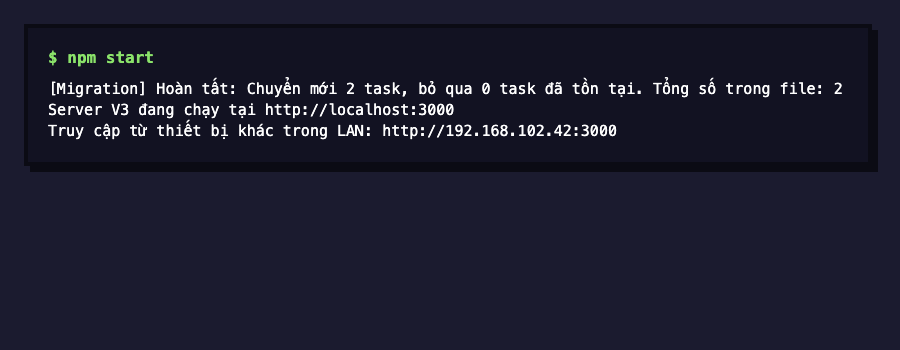
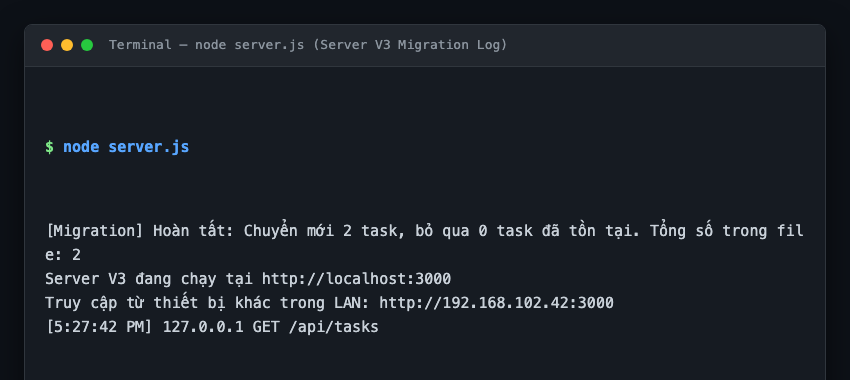
Cap nhat tai lieu va anh minh chung v3-2b, v3-7

Changed region(s): [[0.0, 0.0, 1.0, 1.0]]

diff --git a/docs/README.md b/docs/README.md
@@ -16,10 +16,10 @@ Một codebase duy nhất phát triển qua 4 phiên bản. Mỗi phiên bản c
 
 | Version | NFR mới | Quyết định thiết kế | File/thành phần đổi | Kết quả test |
 |---|---|---|---|---|
-| V1 | Chưa có (chỉ chức năng: tạo, xem, đổi trạng thái, xoá; dữ liệu còn sau khi restart) | Express + 1 trang HTML, lưu `tasks.json` | `server.js`, `public/index.html`, `tasks.json` | Tạo 2 task ("Hoc bai kien truc", "Nop bai tuan 7"), hoàn thành 1 task, tắt server và khởi động lại → 2 task và trạng thái hoàn thành vẫn còn nguyên trong `tasks.json` ✅ |
-| V2 | Chia sẻ trạng thái tập trung giữa nhiều client | Giữ server, client polling 2s; đặt trạng thái `{done}` thay toggle; id UUID; ghi file atomic; listen `0.0.0.0` | `server.js`, `public/index.html` | A tạo → B thấy không reload; B đánh dấu xong → A thấy; tắt server → client báo mất kết nối ✅ |
-| V3 | Modifiability: thay UI và persistence | Tách Presentation / Business / Data Access; `ITaskRepository`; Kanban 2 cột; SQLite + migration từ JSON | `src/**`, `scripts/migrate-to-sqlite.js`, `server.js`, `public/index.html` | Chạy server tự động migrate 2 task từ `tasks.json` sang SQLite (`tasks.db`), giao diện Kanban 2 cột hiển thị đủ; tạo task mới và đổi trạng thái; tắt server bật lại vẫn giữ nguyên; chạy lại migrate lần 2 không bị nhân đôi task ✅ |
-| V4 | Availability khi mất server; giao tiếp ngang hàng | Giữ V3 làm chế độ thường; thêm WebRTC DataChannel (signaling copy-paste); bản sao cục bộ; snapshot + op, last-write-wins | `public/js/peer-link.js`, `public/js/local-replica.js`, `public/index.html` (server không đổi) | Kết nối A–B, tắt server; A tạo → B nhận; bấm XONG → cả hai đổi cột ✅ |
+| V1 | Chưa có (chỉ chức năng: tạo, xem, đổi trạng thái, xoá; dữ liệu còn sau khi restart) | Express + 1 trang HTML, lưu `tasks.json` | `server.js`, `public/index.html`, `tasks.json` | Gọi API tạo 2 task ("Hoc bai kien truc", "Nop bai tuan 7"), gọi API hoàn thành 1 task, tắt server và khởi động lại → giao diện hiển thị đúng 2 task và trạng thái hoàn thành vẫn còn nguyên trong `tasks.json` ✅ |
+| V2 | Chia sẻ trạng thái tập trung giữa nhiều client | Giữ server, client polling 2s; đặt trạng thái `{done}` thay toggle; id duy nhất (UUID sinh bởi `crypto.randomUUID` thay `Date.now`, dữ liệu cũ giữ nguyên `task-1`, `task-2`); ghi file atomic; listen `0.0.0.0` | `server.js`, `public/index.html` | A tạo → B thấy không reload; B đánh dấu xong → A thấy; tắt server → client báo mất kết nối ✅ |
+| V3 | Modifiability: thay UI và persistence | Tách Presentation / Business / Data Access; `ITaskRepository`; Kanban 2 cột; SQLite + migration từ JSON | `src/**`, `scripts/migrate-to-sqlite.js`, `server.js`, `public/index.html` | Chạy server tự động migrate 2 task từ `tasks.json` sang SQLite (`tasks.db`), giao diện Kanban 2 cột hiển thị đủ; gọi API tạo task mới và đổi trạng thái; tắt server bật lại vẫn giữ nguyên; chạy lại migrate lần 2 không bị nhân đôi task ✅ |
+| V4 | Availability khi mất server; giao tiếp ngang hàng | Giữ V3 làm chế độ thường; thêm WebRTC DataChannel (signaling copy-paste); bản sao cục bộ; snapshot + op, last-write-wins | `public/js/peer-link.js`, `public/js/local-replica.js`, `public/index.html` (server không đổi) | Kết nối A–B, tắt server; A tạo → B nhận; đổi trạng thái XONG → cả hai đổi cột ✅ |
 
 ## Kiến trúc qua từng phiên bản
 
@@ -37,13 +37,13 @@ Một codebase duy nhất phát triển qua 4 phiên bản. Mỗi phiên bản c
 
 ## Ảnh minh chứng kiểm thử (Screenshots)
 
-> **Ghi chú:** Các ảnh terminal (`v1-3-tasks-json.png`, `v3-1-truoc-migrate.png`, `v3-2b-log-migrate.png`, `v3-5-migrate-lan-2.png`, `v3-6-file-thay-doi.png`, `v3-7-tach-lop.png`) được render từ output thật của lệnh qua trang HTML (vì môi trường chạy tự động không chụp trực tiếp được cửa sổ terminal hệ điều hành).
+> **Ghi chú về kiểm thử tự động:** Các thao tác tạo task và cập nhật trạng thái ở V1 và V3 được thực hiện bằng lệnh gọi HTTP API (`curl`), sau đó chụp màn hình trình duyệt để kiểm chứng kết quả hiển thị thực tế (không phải bấm chuột thủ công trên UI). Các ảnh terminal (`v1-3-tasks-json.png`, `v3-1-truoc-migrate.png`, `v3-2b-log-migrate.png`, `v3-5-migrate-lan-2.png`, `v3-6-file-thay-doi.png`, `v3-7-tach-lop.png`) được render từ output thật của lệnh qua trang HTML (vì môi trường chạy tự động không chụp trực tiếp được cửa sổ terminal hệ điều hành).
 
 ### Version 1 – Đơn máy, lưu tasks.json
 - ![V1 Tạo task](screenshots/v1-1-tao-task.png)
-  *Tạo thành công 2 task ("Hoc bai kien truc", "Nop bai tuan 7") trên giao diện web V1.*
+  *Gọi API tạo thành công 2 task ("Hoc bai kien truc", "Nop bai tuan 7"), giao diện V1 hiển thị đủ 2 task kèm đếm 0/2 XONG.*
 - ![V1 Hoàn thành task](screenshots/v1-2-hoan-thanh.png)
-  *Đánh dấu hoàn thành task "Hoc bai kien truc", đếm task cập nhật thành 1/2 XONG.*
+  *Gọi API đánh dấu hoàn thành task "Hoc bai kien truc", giao diện V1 cập nhật task sang trạng thái gạch ngang và đếm 1/2 XONG.*
 - ![V1 Dữ liệu tasks.json](screenshots/v1-3-tasks-json.png)
   *File `tasks.json` ghi nhận đúng 2 task với trạng thái `done: true` và `done: false`.*
 - ![V1 Khởi động lại server](screenshots/v1-4-khoi-dong-lai.png)
@@ -53,9 +53,9 @@ Một codebase duy nhất phát triển qua 4 phiên bản. Mỗi phiên bản c
 - ![V2 Tạo task đồng bộ](screenshots/v2-1-tao-task.png)
   *Hai cửa sổ trình duyệt (thường và ẩn danh) cùng kết nối, client A tạo task thì client B tự động cập nhật qua polling.*
 - ![V2 Đổi trạng thái đồng bộ](screenshots/v2-2-doi-trang-thai.png)
-  *Client B đánh dấu hoàn thành task, client A lập tức cập nhật trạng thái mà không cần tải lại trang.*
+  *Hai cửa sổ trình duyệt (Incognito bên trái và thường bên phải) hiển thị đồng bộ 2 task ("xin chào", "bên trái") đều ở trạng thái ĐÃ XONG (gạch ngang, nút LÀM LẠI), bộ đếm 2/2 XONG và nhãn trạng thái ĐỒNG BỘ.*
 - ![V2 Tắt server](screenshots/v2-3-tat-server.png)
-  *Khi tắt server, cả hai client đồng loạt hiển thị thông báo mất kết nối tới máy chủ.*
+  *Khi tắt server, cả hai client đồng loạt hiển thị nhãn màu cam/đỏ MẤT KẾT NỐI SERVER ở góc trên danh sách công việc.*
 
 ### Version 3 – Bảng Kanban + SQLite + Tách lớp
 - ![V3 Trước migrate](screenshots/v3-1-truoc-migrate.png)
@@ -63,9 +63,9 @@ Một codebase duy nhất phát triển qua 4 phiên bản. Mỗi phiên bản c
 - ![V3 Kanban hiển thị task migrate](screenshots/v3-2-kanban-migrate.png)
   *Giao diện Kanban 2 cột sau khi khởi động, nạp thành công 2 task cũ vào đúng cột Chưa hoàn thành và Hoàn thành.*
 - ![V3 Log migrate](screenshots/v3-2b-log-migrate.png)
-  *Log terminal khởi động server tự động kích hoạt script migration chuyển 2 task cũ sang SQLite.*
+  *Log terminal khởi động server ghi nhận output thật của script migration tự động chuyển 2 task cũ từ `tasks.json` sang SQLite.*
 - ![V3 Tạo và đổi trạng thái trên Kanban](screenshots/v3-3-tao-doi-trang-thai.png)
-  *Tạo task mới ("Task moi Kanban V3") và đổi trạng thái task cũ sang cột Hoàn thành bằng nút bấm.*
+  *Gọi API tạo task mới ("Task moi Kanban V3") và gọi API chuyển trạng thái task cũ sang hoàn thành, giao diện Kanban 2 cột cập nhật vị trí các task tương ứng.*
 - ![V3 Reload và restart server](screenshots/v3-4-reload.png)
   *Tắt server, bật lại và reload trình duyệt, cả 3 task vẫn được lưu trữ nguyên vẹn trong SQLite (`tasks.db`).*
 - ![V3 Chạy migrate lần 2](screenshots/v3-5-migrate-lan-2.png)
@@ -73,25 +73,25 @@ Một codebase duy nhất phát triển qua 4 phiên bản. Mỗi phiên bản c
 - ![V3 Bằng chứng file thay đổi](screenshots/v3-6-file-thay-doi.png)
   *Lệnh `git diff --stat v2 v3` chỉ ra chi tiết các file thay đổi khi chuyển giao diện Kanban và cấu trúc 3 lớp.*
 - ![V3 Tầng nghiệp vụ độc lập](screenshots/v3-7-tach-lop.png)
-  *Lệnh grep kiểm tra `TaskService.js` chứng minh tầng nghiệp vụ hoàn toàn không phụ thuộc vào sqlite hay express.*
+  *Lệnh grep kiểm tra `TaskService.js` chứng minh tầng nghiệp vụ hoàn toàn không import `better-sqlite3` hay `express`. Lệnh chỉ trả về `require('crypto')` - module chuẩn tích hợp sẵn của Node.js để sinh UUID.*
 
 ### Version 4 – Đồng bộ P2P khi mất server
 - ![V4 Kết nối P2P](screenshots/v4-1-ket-noi.png)
-  *Hai trình duyệt kết nối WebRTC DataChannel thành công bằng mã mời thủ công, chuyển sang trạng thái "CHẾ ĐỘ P2P".*
+  *Hai trình duyệt kết nối WebRTC DataChannel thành công bằng mã mời thủ công, cả hai đều hiển thị nhãn "CHẾ ĐỘ P2P" và khung kết nối hiển thị "ĐÃ KẾT NỐI P2P", danh sách task Kanban đồng bộ.*
 - ![V4 Tắt server](screenshots/v4-2-tat-server.png)
   *Server Node.js đã bị tắt ở cửa sổ terminal, nhưng kết nối P2P giữa hai trình duyệt vẫn duy trì trực tiếp.*
 - ![V4 Tạo task qua P2P](screenshots/v4-3-tao-task.png)
   *Server đã tắt, peer A tạo task mới và gửi thẳng qua WebRTC DataChannel tới peer B tức thì.*
 - ![V4 Đổi trạng thái qua P2P](screenshots/v4-4-doi-trang-thai.png)
-  *Server đã tắt, peer B đổi trạng thái task, peer A nhận thao tác và cập nhật giao diện Kanban đồng bộ.*
+  *Khung kết nối P2P của hai trình duyệt sau khi kết nối và trao đổi bản sao snapshot 2 task ("Task cũ số 1", "Task cũ số 2"), khung log hiển thị dòng nhận bản sao và thông báo DataChannel đã mở.*
 
 ## Trả lời câu hỏi thảo luận
 
 ### 1. Nâng V1 lên V2 thay đổi gì về cách dùng/triển khai (không chỉ đổi tên kiến trúc)?
-Ở V1, ứng dụng chỉ dùng cục bộ trên 1 máy (`localhost`), dữ liệu nạp một lần duy nhất lúc mở trang nên nếu mở nhiều tab hoặc nhiều người cùng dùng sẽ không thấy thay đổi của nhau nếu không reload trang. Lên V2, server lắng nghe trên tất cả giao diện mạng (`0.0.0.0`) giúp các máy khác trong mạng LAN có thể kết nối vào qua IP thật. Phía client được bổ sung cơ chế polling định kỳ 2 giây/lần để liên tục đồng bộ dữ liệu mới nhất từ server. Đồng thời, API cập nhật trạng thái đổi từ cơ chế lật ngược (toggle) sang gửi trạng thái cụ thể (`done: true/false`) kèm ID định danh UUID, ngăn chặn việc hai client thao tác cùng lúc làm đảo lộn trạng thái của nhau.
+Ở V1, ứng dụng chỉ dùng cục bộ trên 1 máy (`localhost`), dữ liệu nạp một lần duy nhất lúc mở trang nên nếu mở nhiều tab hoặc nhiều người cùng dùng sẽ không thấy thay đổi của nhau nếu không reload trang. Lên V2, server lắng nghe trên tất cả giao diện mạng (`0.0.0.0`) giúp các máy khác trong mạng LAN có thể kết nối vào qua IP thật. Phía client được bổ sung cơ chế polling định kỳ 2 giây/lần để liên tục đồng bộ dữ liệu mới nhất từ server. Đồng thời, API cập nhật trạng thái đổi từ cơ chế lật ngược (toggle) sang gửi trạng thái cụ thể (`done: true/false`) kèm ID định danh duy nhất (dữ liệu cũ dùng id `task-1`, `task-2`; từ V2 server sinh UUID bằng `crypto.randomUUID()` thay cho `Date.now()` để tránh trùng khi 2 máy tạo cùng mili-giây), ngăn chặn việc hai client thao tác cùng lúc làm đảo lộn trạng thái của nhau.
 
 ### 2. Ở V3, phần nào đổi khi thiết kế lại UI, phần nào đổi khi chuyển JSON sang SQLite? Bằng chứng tách biệt là gì?
-Khi thiết kế lại giao diện sang bảng Kanban 2 cột, chỉ có duy nhất file [`public/index.html`](file:///Users/macos/Desktop/TodoProject/public/index.html) bị sửa đổi để render 2 cột và xử lý sự kiện bấm nút chuyển trạng thái. Khi chuyển từ file JSON sang SQLite, các file thay đổi gồm [`src/data/SqliteTaskRepository.js`](file:///Users/macos/Desktop/TodoProject/src/data/SqliteTaskRepository.js), script [`scripts/migrate-to-sqlite.js`](file:///Users/macos/Desktop/TodoProject/scripts/migrate-to-sqlite.js), thư viện `better-sqlite3` trong `package.json`, và 1 dòng khởi tạo repository trong `server.js`. Bằng chứng tách biệt rõ ràng được thể hiện qua output `git diff --stat v2 v3` ([ảnh v3-6](screenshots/v3-6-file-thay-doi.png)) và lệnh grep ([ảnh v3-7](screenshots/v3-7-tach-lop.png)): tầng Business Logic ([`TaskService.js`](file:///Users/macos/Desktop/TodoProject/src/business/TaskService.js)) hoàn toàn không bị ảnh hưởng bởi giao diện Kanban và cũng không hề import thư viện SQLite hay Express.
+Khi thiết kế lại giao diện sang bảng Kanban 2 cột, chỉ có duy nhất file [`public/index.html`](file:///Users/macos/Desktop/TodoProject/public/index.html) bị sửa đổi để render 2 cột và xử lý hiển thị trạng thái. Khi chuyển từ file JSON sang SQLite, các file thay đổi gồm [`src/data/SqliteTaskRepository.js`](file:///Users/macos/Desktop/TodoProject/src/data/SqliteTaskRepository.js), script [`scripts/migrate-to-sqlite.js`](file:///Users/macos/Desktop/TodoProject/scripts/migrate-to-sqlite.js), thư viện `better-sqlite3` trong `package.json`, và 1 dòng khởi tạo repository trong `server.js`. Bằng chứng tách biệt rõ ràng được thể hiện qua output `git diff --stat v2 v3` ([ảnh v3-6](screenshots/v3-6-file-thay-doi.png)) và lệnh grep ([ảnh v3-7](screenshots/v3-7-tach-lop.png)): tầng Business Logic ([`TaskService.js`](file:///Users/macos/Desktop/TodoProject/src/business/TaskService.js)) hoàn toàn không bị ảnh hưởng bởi giao diện Kanban và cũng không hề import thư viện SQLite hay Express; `TaskService.js` chỉ require duy nhất module `crypto` chuẩn của Node.js để sinh UUID.
 
 ### 3. V4 cải thiện tính sẵn sàng ở tình huống nào? Đổi lại mất bảo đảm gì về đồng bộ và nhất quán?
 V4 cải thiện tính sẵn sàng (Availability) khi server trung tâm gặp sự cố hoặc bị tắt hoàn toàn, nhưng hai máy người dùng trong cùng mạng LAN đã kịp kết nối P2P trực tiếp với nhau từ trước thông qua WebRTC DataChannel. Trong tình huống này, hai peer vẫn có thể tiếp tục tạo task, đổi trạng thái và xoá task trực tiếp với nhau mà không bị gián đoạn. Tuy nhiên, hệ thống phải đánh đổi bằng việc mất đi tính nhất quán mạnh (Strong Consistency) và không còn một nguồn dữ liệu chuẩn duy nhất (Single Source of Truth). Vì V4 chưa giải quyết xung đột đầy đủ, xung đột chỉ được xử lý thô bằng cơ chế Last-Write-Wins dựa trên `updatedAt` của đồng hồ máy tính (dễ sai lệch nếu giờ 2 máy không chuẩn), và dữ liệu thao tác lúc P2P không tự động ghi ngược về SQLite trên server.

diff --git a/docs/V4-p2p.md b/docs/V4-p2p.md
@@ -61,7 +61,20 @@ Không có signaling server: mã SDP được người dùng tự chuyển cho n
 
 | Version | NFR mới | Quyết định thiết kế | File/thành phần đổi | Kết quả test |
 |---|---|---|---|---|
-| V4 | Availability khi server mất; giao tiếp ngang hàng | Giữ V3 làm chế độ thường; thêm WebRTC DataChannel với signaling thủ công; mỗi peer giữ LocalReplica; đồng bộ bằng snapshot lúc kết nối + thao tác (op) sau đó; trùng id thì bản sửa sau thắng (`updatedAt`) | Thêm `public/js/peer-link.js`, `public/js/local-replica.js`; sửa `public/index.html`. Server không đổi | Kết nối A–B, tắt server (fetch tới server thất bại); A tạo task → B nhận; B đổi trạng thái → A nhận; B xoá → A nhận |
+| V4 | Availability khi server mất; giao tiếp ngang hàng | Giữ V3 làm chế độ thường; thêm WebRTC DataChannel với signaling thủ công; mỗi peer giữ LocalReplica; đồng bộ bằng snapshot lúc kết nối + phát op sau đó; xung đột xử lý một phần dựa vào nhãn thời gian `updatedAt` | Thêm `public/js/peer-link.js`, `public/js/local-replica.js`; sửa `public/index.html`. Server không đổi | Kết nối A–B, tắt server (fetch tới server thất bại); A tạo task → B nhận; B đổi trạng thái → A nhận; B xoá → A nhận |
+
+## Cơ chế xử lý dữ liệu và xung đột trong code thực tế
+
+Đọc kỹ mã nguồn `public/js/local-replica.js` và `public/index.html`, hệ thống xử lý xung đột như sau:
+
+- **Chỗ CÓ kiểm tra `updatedAt`:**
+  - Thao tác cập nhật trạng thái (`op.type === 'update'`): Trong `LocalReplica.apply()`, code so sánh `if (!task || op.updatedAt < (task.updatedAt || 0)) return false;`. Nếu thao tác từ peer mang `updatedAt` nhỏ hơn thời gian cập nhật hiện tại của task cục bộ thì sẽ bị từ chối; nếu lớn hơn hoặc bằng thì mới ghi đè `task.done = op.done; task.updatedAt = op.updatedAt;`.
+  - Hợp nhất bản sao khi kết nối (`LocalReplica.merge()`): So sánh `if (!mine || (r.updatedAt || 0) > (mine.updatedAt || 0))` để chọn task có `updatedAt` lớn hơn khi trùng `id`.
+- **Chỗ GHI ĐÈ THẲNG / KHÔNG kiểm tra `updatedAt`:**
+  - Thao tác xoá (`op.type === 'delete'`): Code lọc bỏ ngay lập tức task khỏi mảng (`this.tasks.filter(t => t.id !== op.id)`), hoàn toàn **không mang theo `updatedAt`** và **không lưu tombstone**.
+  - Thao tác tạo (`op.type === 'create'`): Nếu `id` đã tồn tại thì bỏ qua luôn (`return false`), không so sánh nội dung.
+  - Khi còn server: Polling định kỳ gọi `replaceAll()`, ghi đè toàn bộ danh sách từ server vào replica và gán `updatedAt = 0` cho các task mới.
+- **Kết luận:** Hệ thống **chưa đạt được Last-Write-Wins (LWW) đầy đủ**, mà chỉ áp dụng quy tắc nhãn thời gian thô sơ cho trường hợp sửa trạng thái task; các thao tác khác phụ thuộc vào thứ tự nhận tin và dễ xảy ra hiện tượng mất dữ liệu hoặc task đã xoá bị sống lại.
 
 ## Đánh đổi và giới hạn
 
@@ -70,17 +83,18 @@ Không có signaling server: mã SDP được người dùng tự chuyển cho n
 | Vẫn làm việc khi server chết, miễn kênh peer còn sống | Không còn một nguồn dữ liệu chuẩn duy nhất; mỗi peer có bản riêng |
 | Không cần hạ tầng mới, chạy hoàn toàn trên trình duyệt | Thay đổi lúc P2P **không ghi về SQLite**; bật lại server thì client quay về dữ liệu server |
 | Độ trễ thấp (truyền thẳng) | Chỉ 2 peer; thêm người phải nối lưới nhiều kết nối |
-| | Không giải quyết xung đột thật sự: hai người sửa cùng task → bản `updatedAt` lớn hơn thắng, phụ thuộc đồng hồ máy |
+| | Không giải quyết xung đột đầy đủ: chỉ kiểm tra `updatedAt` khi update trạng thái, phụ thuộc giờ máy |
 | | Không có tombstone: task bị xoá trước khi kết nối có thể "sống lại" khi ghép bản sao |
 | | Peer mất kết nối thì thao tác không được gửi lại (không có hàng đợi) |
-| | Trang phải được mở khi server còn sống; tải lại trang khi server đã tắt thì không mở được |
+| | Phải mở trang khi server còn sống. Nếu bấm F5 lúc server đã tắt thì báo lỗi, vì chưa có Service Worker/cache offline |
 
 ### Giới hạn / Chưa làm được (mã nguồn thực tế)
 
-1. **Không có tombstone:** Thao tác xoá task chỉ đơn thuần xoá phần tử khỏi mảng trong `LocalReplica`. Khi hai peer ghép bản sao (snapshot merge), task đã bị xoá ở peer này nhưng vẫn còn ở peer kia sẽ được khôi phục trở lại ("sống lại").
-2. **Cơ chế LWW phụ thuộc vào Date.now():** Quy tắc Last-Write-Wins so sánh nhãn thời gian `updatedAt` sinh ra từ đồng hồ của từng máy client (`Date.now()`). Nếu đồng hồ giữa hai máy bị lệch, máy có đồng hồ chạy nhanh hơn sẽ luôn ghi đè thay đổi của máy kia bất kể thứ tự thời gian thực tế.
-3. **Chỉ hỗ trợ 2 peer:** Triển khai WebRTC hiện tại là kết nối điểm-điểm (1-1), chưa có giải pháp định tuyến dạng lưới (Mesh Network) cho nhóm từ 3 peer trở lên.
-4. **Signaling thủ công:** Quá trình trao đổi thông tin kết nối (SDP Offer/Answer) hoàn toàn phụ thuộc vào việc người dùng tự sao chép và dán chuỗi ký tự qua kênh liên lạc ngoài (chat, email), chưa có cơ chế tự động tìm kiếm hay kết nối lại.
+1. **Phải mở trang khi server còn sống:** Nếu bấm F5 lúc server đã tắt thì báo lỗi (không tải được HTML/CSS/JS), vì ứng dụng chưa có Service Worker/cache offline (chưa phải PWA).
+2. **Không có tombstone:** Thao tác xoá task chỉ đơn thuần xoá phần tử khỏi mảng trong `LocalReplica`. Khi hai peer ghép bản sao (snapshot merge), task đã bị xoá ở peer này nhưng vẫn còn ở peer kia sẽ được khôi phục trở lại ("sống lại").
+3. **Cơ chế LWW phụ thuộc vào Date.now():** Quy tắc Last-Write-Wins so sánh nhãn thời gian `updatedAt` sinh ra từ đồng hồ của từng máy client (`Date.now()`). Nếu đồng hồ giữa hai máy bị lệch, máy có đồng hồ chạy nhanh hơn sẽ luôn ghi đè thay đổi của máy kia bất kể thứ tự thời gian thực tế.
+4. **Chỉ hỗ trợ 2 peer:** Triển khai WebRTC hiện tại là kết nối điểm-điểm (1-1), chưa có giải pháp định tuyến dạng lưới (Mesh Network) cho nhóm từ 3 peer trở lên.
+5. **Signaling thủ công:** Quá trình trao đổi thông tin kết nối (SDP Offer/Answer) hoàn toàn phụ thuộc vào việc người dùng tự sao chép và dán chuỗi ký tự qua kênh liên lạc ngoài (chat, email), chưa có cơ chế tự động tìm kiếm hay kết nối lại.
 
 > **Lưu ý:** V4 chưa giải quyết xung đột đầy đủ.
 

diff --git a/docs/V3-n-layer.md b/docs/V3-n-layer.md
@@ -41,7 +41,7 @@ flowchart TB
 Dựa trên kết quả thực tế từ `git diff --stat v2 v3` (xem minh chứng tại [ảnh v3-6](screenshots/v3-6-file-thay-doi.png) và [ảnh v3-7](screenshots/v3-7-tach-lop.png)), các thay đổi được phân định rõ ràng thành 2 nhóm độc lập:
 
 ### 1. Danh sách file đổi khi đổi giao diện sang Kanban
-- `public/index.html`: Chuyển layout từ danh sách phẳng 1 cột sang bảng Kanban 2 cột ("Chưa hoàn thành" và "Hoàn thành"), thêm nút chuyển trạng thái bằng thao tác bấm.
+- `public/index.html`: Chuyển layout từ danh sách phẳng 1 cột sang bảng Kanban 2 cột ("Chưa hoàn thành" và "Hoàn thành"), thêm nút chuyển trạng thái trên từng thẻ task (gọi API PATCH để đổi trạng thái).
 - **File không đổi:** Toàn bộ tầng Business Logic (`src/business/TaskService.js`), tầng Data Access (`src/data/**`), và tầng Routes (`src/routes/**`).
 
 ### 2. Danh sách file đổi khi đổi JSON sang SQLite & kiến trúc 3 lớp
@@ -54,6 +54,8 @@ Dựa trên kết quả thực tế từ `git diff --stat v2 v3` (xem minh chứ
 - `server.js`: Rút gọn chỉ làm Composition Root để lắp ráp các lớp (Repo → Service → Controller).
 - `.gitignore`: Bỏ qua các file CSDL `*.db`, `*.db-journal`.
 - **File không đổi:** Giao diện người dùng (`public/index.html`) hoàn toàn không thay đổi khi thay đổi cơ chế lưu trữ phía dưới.
+
+> **Ghi chú về tính độc lập của tầng nghiệp vụ:** Khi kiểm tra mã nguồn `TaskService.js` bằng lệnh grep (xem minh chứng tại [ảnh v3-7](screenshots/v3-7-tach-lop.png)), dòng duy nhất xuất hiện `require` là `const crypto = require('crypto');` – đây là module chuẩn tích hợp sẵn trong Node.js (dùng để sinh UUID cho task mới), hoàn toàn không phụ thuộc hay import thư viện bên ngoài như `better-sqlite3` hay `express`.
 
 | Yêu cầu | File đổi | File **không** đổi |
 |---|---|---|
@@ -68,7 +70,7 @@ Dựa trên kết quả thực tế từ `git diff --stat v2 v3` (xem minh chứ
 
 | Version | NFR mới | Quyết định thiết kế | File/thành phần đổi | Kết quả test |
 |---|---|---|---|---|
-| V3 | Modifiability: thay UI và persistence mà nghiệp vụ vẫn chạy | Tách 3 lớp, dependency injection Repo → Service → Router; repository interface; migration idempotent (`INSERT OR IGNORE`) chạy lúc khởi động | `server.js`, `src/**`, `scripts/migrate-to-sqlite.js`, `public/index.html`, `package.json` | Khởi động server V3 tự động chạy migration chuyển 2 task cũ từ `tasks.json` sang SQLite (`tasks.db`); giao diện Kanban hiển thị đúng 2 task ở 2 cột; tạo task mới ("Task moi Kanban V3") và chuyển trạng thái thành công; restart server dữ liệu vẫn còn nguyên (3 task); chạy lại migration lần 2 không bị nhân đôi task (3 task trước = 3 task sau) ✅ |
+| V3 | Modifiability: thay UI và persistence mà nghiệp vụ vẫn chạy | Tách 3 lớp, dependency injection Repo → Service → Router; repository interface; migration idempotent (`INSERT OR IGNORE`) chạy lúc khởi động | `server.js`, `src/**`, `scripts/migrate-to-sqlite.js`, `public/index.html`, `package.json` | Khởi động server V3 tự động chạy migration chuyển 2 task cũ từ `tasks.json` sang SQLite (`tasks.db`); giao diện Kanban hiển thị đúng 2 task ở 2 cột; gọi API tạo task mới ("Task moi Kanban V3") và gọi API chuyển trạng thái thành công; restart server dữ liệu vẫn còn nguyên (3 task); chạy lại migration lần 2 không bị nhân đôi task (3 task trước = 3 task sau) ✅ |
 
 ## Đánh đổi
 

diff --git a/docs/V2-client-server.md b/docs/V2-client-server.md
@@ -29,7 +29,7 @@ Dữ liệu chỉ nằm ở server (`tasks.json`). Client không lưu bản sao 
 
 | Version | NFR mới | Quyết định thiết kế | File/thành phần đổi | Kết quả test |
 |---|---|---|---|---|
-| V2 | Chia sẻ trạng thái tập trung giữa nhiều client | Giữ server V1, mọi client đọc/ghi qua API; polling 2s; đặt trạng thái tường minh `{done}` thay cho toggle; id UUID; ghi file atomic; listen 0.0.0.0 để máy khác trong LAN vào được | `server.js`, `public/index.html` | A tạo 2 task → B thấy sau ≤2s không reload; B đánh dấu xong → A thấy `1/2 XONG`; tắt server → client báo mất kết nối |
+| V2 | Chia sẻ trạng thái tập trung giữa nhiều client | Giữ server V1, mọi client đọc/ghi qua API; polling 2s; đặt trạng thái tường minh `{done}` thay cho toggle; id duy nhất (UUID sinh bởi `crypto.randomUUID` thay `Date.now`, dữ liệu cũ giữ nguyên `task-1`, `task-2`); ghi file atomic; listen 0.0.0.0 để máy khác trong LAN vào được | `server.js`, `public/index.html` | A tạo 2 task → B thấy sau ≤2s không reload; B đánh dấu xong → A thấy `1/2 XONG`; tắt server → client báo mất kết nối |
 
 ## Đánh đổi
 

diff --git a/README.md b/README.md
@@ -8,7 +8,7 @@
 3. Đổi trạng thái task: chưa hoàn thành ↔ hoàn thành
 4. Xoá task
 
-Dữ liệu được lưu trực tiếp vào file `tasks.json` và giữ nguyên sau khi tắt/bật lại server.
+Ở V1 và V2, dữ liệu được lưu trực tiếp vào file `tasks.json`. Từ V3 trở đi, dữ liệu được lưu bền vững vào cơ sở dữ liệu SQLite (`tasks.db`); file `tasks.json` chỉ còn đóng vai trò là nguồn dữ liệu cũ để tự động chuyển đổi (migrate) vào SQLite khi khởi động.
 
 ## Cách cài đặt
 
